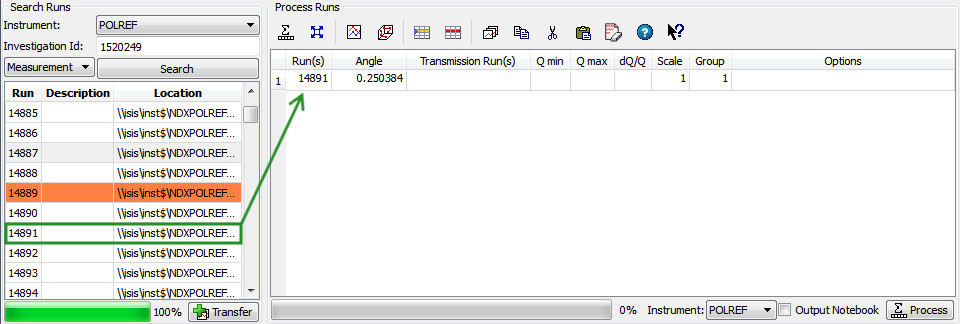
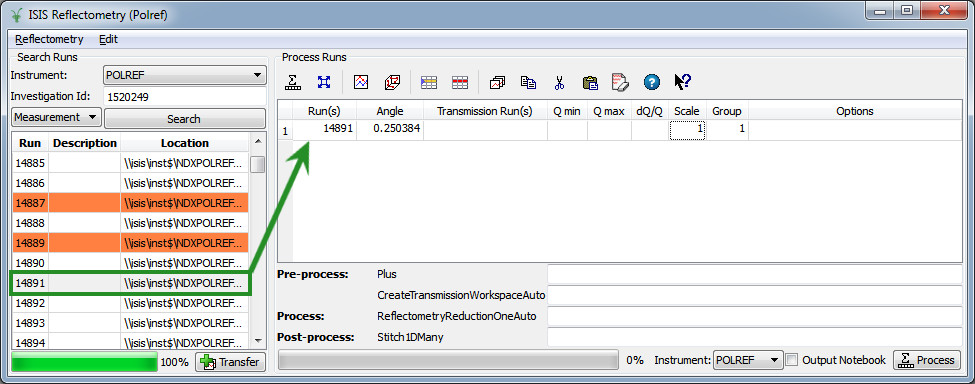
Re #15672 Update UI image + update to Scale column

diff --git a/docs/source/interfaces/ISIS_Reflectometry.rst b/docs/source/interfaces/ISIS_Reflectometry.rst
@@ -299,7 +299,7 @@ Columns
 |                     |           |                                               |
 |                     |           | Example: ``0.9``                              |
 +---------------------+-----------+-----------------------------------------------+
-| Scale               | **Yes**   | Contains the factor used to scale output      |
+| Scale               | No        | Contains the factor used to scale output      |
 |                     |           | IvsQ workspaces. The IvsQ workspaces are      |
 |                     |           | scaled by ``1/i`` where i is the value of     |
 |                     |           | this column.                                  |
